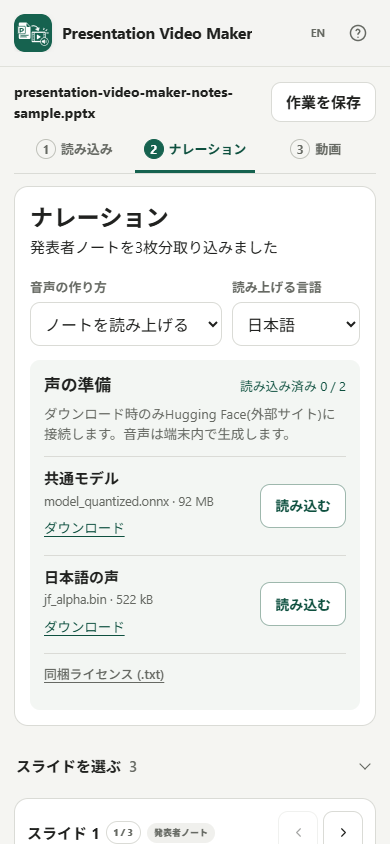
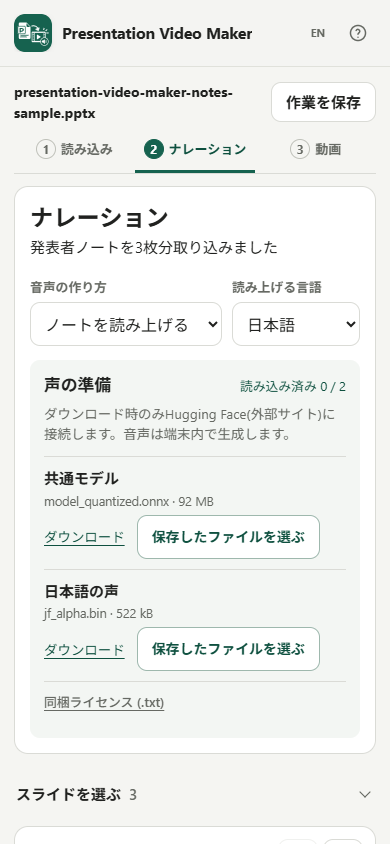
Edit, preview and regenerate slide narration in place

diff --git a/src/index.template.html b/src/index.template.html
@@ -607,7 +607,9 @@
     .guide-preview .renderer-badge[data-state="primary"] { display:none; }
     .guide-slide .narration-section-head { margin-top:12px; }
     .guide-slide textarea { min-height:190px; }
-    .guide-listen-slide { margin-top:10px; }
+    .guide-slide-audio { display:flex; flex-wrap:wrap; align-items:center; gap:8px; }
+    .guide-slide-audio:has(> :not([hidden])) { margin-top:10px; }
+    #guideAudioPlayer { width:100%; min-width:0; max-width:34rem; }
     .guide-slide #sceneEditorContent { min-width:0; }
     .guide-disclosure { border-top:1px solid var(--line); margin-top:12px; }
     .guide-capture,.guide-recordings { padding-inline:12px; }
@@ -650,6 +652,8 @@
       .guide-import .guide-drop-label { display:none; }
     }
     @media (max-width:420px) {
+      .guide-model li { grid-template-columns:minmax(0,1fr); gap:4px; }
+      .guide-model-actions { display:flex; gap:4px 12px; }
       .guide-main-actions { display:grid; grid-template-columns:minmax(0,1fr); }
       :lang(en) .guide-method { grid-template-columns:minmax(0,1fr); }
     }
@@ -760,7 +764,7 @@
                 <div class="guide-model-name"><strong data-i18n="guideModel">共通モデル</strong><small>model_quantized.onnx · 92 MB</small></div>
                 <div class="guide-model-actions">
                   <a href="https://huggingface.co/onnx-community/Kokoro-82M-v1.0-ONNX/resolve/1939ad2a8e416c0acfeecc08a694d14ef25f2231/onnx/model_quantized.onnx?download=true" target="_blank" rel="noopener noreferrer" data-i18n="guideDownload" data-i18n-aria-label="guideDownloadModel" aria-label="共通モデルをダウンロード">ダウンロード</a>
-                  <button class="button" type="button" data-load-local-file data-i18n="guideLoadFile" data-i18n-aria-label="guideReadModel" aria-label="モデルを読み込む">読み込む</button>
+                  <button class="button" type="button" data-load-local-file data-i18n="guideLoadFile" data-i18n-aria-label="guideReadModel" aria-label="保存したファイルを選ぶ（共通モデル）">保存したファイルを選ぶ</button>
                   <strong class="guide-file-ready" data-local-ready data-i18n="guideFileReady" hidden>読み込み済み</strong>
                 </div>
                 <input type="file" data-local-file="model_quantized.onnx" accept=".onnx" hidden>
@@ -769,7 +773,7 @@
                 <div class="guide-model-name"><strong data-i18n="guideJaVoice">日本語の声</strong><small>jf_alpha.bin · 522 kB</small></div>
                 <div class="guide-model-actions">
                   <a href="https://huggingface.co/onnx-community/Kokoro-82M-v1.0-ONNX/resolve/1939ad2a8e416c0acfeecc08a694d14ef25f2231/voices/jf_alpha.bin?download=true" target="_blank" rel="noopener noreferrer" data-i18n="guideDownload" data-i18n-aria-label="guideDownloadJaVoice" aria-label="日本語の声をダウンロード">ダウンロード</a>
-                  <button class="button" type="button" data-load-local-file data-i18n="guideLoadFile" data-i18n-aria-label="guideReadJaVoice" aria-label="日本語の声を読み込む">読み込む</button>
+                  <button class="button" type="button" data-load-local-file data-i18n="guideLoadFile" data-i18n-aria-label="guideReadJaVoice" aria-label="保存したファイルを選ぶ（日本語の声）">保存したファイルを選ぶ</button>
                   <strong class="guide-file-ready" data-local-ready data-i18n="guideFileReady" hidden>読み込み済み</strong>
                 </div>
                 <input type="file" data-local-file="jf_alpha.bin" accept=".bin" hidden>
@@ -778,7 +782,7 @@
                 <div class="guide-model-name"><strong data-i18n="guideEnVoice">英語の声</strong><small>af_heart.bin · 522 kB</small></div>
                 <div class="guide-model-actions">
                   <a href="https://huggingface.co/onnx-community/Kokoro-82M-v1.0-ONNX/resolve/1939ad2a8e416c0acfeecc08a694d14ef25f2231/voices/af_heart.bin?download=true" target="_blank" rel="noopener noreferrer" data-i18n="guideDownload" data-i18n-aria-label="guideDownloadEnVoice" aria-label="英語の声をダウンロード">ダウンロード</a>
-                  <button class="button" type="button" data-load-local-file data-i18n="guideLoadFile" data-i18n-aria-label="guideReadEnVoice" aria-label="英語の声を読み込む">読み込む</button>
+                  <button class="button" type="button" data-load-local-file data-i18n="guideLoadFile" data-i18n-aria-label="guideReadEnVoice" aria-label="保存したファイルを選ぶ（英語の声）">保存したファイルを選ぶ</button>
                   <strong class="guide-file-ready" data-local-ready data-i18n="guideFileReady" hidden>読み込み済み</strong>
                 </div>
                 <input type="file" data-local-file="af_heart.bin" accept=".bin" hidden>
@@ -838,7 +842,12 @@
               <textarea id="scriptInput" maxlength="12000" data-i18n-placeholder="scriptPlaceholder" placeholder="発表者ノートがここに入ります。"></textarea>
               <span class="helper" id="scriptSourceHint" data-i18n="scriptHint">発表者ノートがある場合は自動で使用します。</span>
             </label>
-            <button type="button" class="button guide-listen-slide" id="guidePlaySlide" hidden data-i18n="guidePlayAudio">音声を聞く</button>
+            <div class="guide-slide-audio" id="guideSlideAudio">
+              <button type="button" class="button" id="guideUpdateSlide" data-i18n="guideUpdateAudio" hidden>このスライドの音声を更新</button>
+              <button type="button" class="button" id="guidePlaySlide" data-i18n="guidePlayAudio" hidden>音声を聞く</button>
+              <span class="helper" id="guidePreviousAudio" data-i18n="guidePreviousAudio" hidden>変更前の音声</span>
+              <audio id="guideAudioPlayer" controls preload="none" tabindex="0" aria-label="ナレーションの試聴" data-i18n-aria-label="guidePlayerLabel" hidden></audio>
+            </div>
             <details class="guide-disclosure" id="guideSlideSettings"><summary data-i18n="guideSlideSettings">このスライドの設定</summary>
             <div class="script-actions"><button class="text-button" id="resetScriptButton" type="button" data-i18n="resetScript">元の原稿に戻す</button></div>
             <div class="scene-options-row">
@@ -1026,7 +1035,7 @@
                 <video id="videoResultPreview" controls playsinline></video>
                 <div class="button-row" style="margin-top:10px"><button class="button primary" id="saveVideoButton" type="button" data-i18n="saveVideo">MP4を保存</button></div>
               </div>
-              <details class="guide-disclosure"><summary data-i18n="guideFinishing">仕上げの設定</summary>
+              <details class="guide-disclosure"><summary data-i18n="guideFinishing">字幕・BGM・切り替え</summary>
               <div class="video-polish-settings">
                 <label class="field" for="videoTransition"><span class="field-label" data-i18n="transitionLabel">切り替え</span><select id="videoTransition"><option value="fade" data-i18n="transitionFade">フェード</option><option value="cut" data-i18n="transitionCut">カット</option></select></label>
                 <div class="field"><span class="field-label" data-i18n="subtitleLabel">字幕</span><label class="toggle-line"><input id="videoSubtitles" type="checkbox"><span data-i18n="subtitleBurnIn">原稿から字幕を入れる</span></label></div>
@@ -1171,7 +1180,7 @@
         guideModelTitle:['声の準備','Set up the voice'],
         guideModelSteps:['ダウンロード時のみHugging Face(外部サイト)に接続します。音声は端末内で生成します。','Only downloads connect to Hugging Face (external site). Audio is generated on your device.'],
         guideModelCount:['読み込み済み {ready} / {total}','{ready} of {total} loaded'],
-        guideLoadFile:['読み込む','Load'],
+        guideLoadFile:['保存したファイルを選ぶ','Choose saved file'],
         guideModel:['共通モデル','Shared model'],
         guideJaVoice:['日本語の声','Japanese voice'],
         guideEnVoice:['英語の声','English voice'],
@@ -1180,9 +1189,9 @@
         guideDownloadModel:['共通モデルをダウンロード','Download shared model'],
         guideDownloadJaVoice:['日本語の声をダウンロード','Download Japanese voice'],
         guideDownloadEnVoice:['英語の声をダウンロード','Download English voice'],
-        guideReadModel:['モデルを読み込む','Load model'],
-        guideReadJaVoice:['日本語の声を読み込む','Load Japanese voice'],
-        guideReadEnVoice:['英語の声を読み込む','Load English voice'],
+        guideReadModel:['保存したファイルを選ぶ（共通モデル）','Choose saved file (shared model)'],
+        guideReadJaVoice:['保存したファイルを選ぶ（日本語の声）','Choose saved file (Japanese voice)'],
+        guideReadEnVoice:['保存したファイルを選ぶ（英語の声）','Choose saved file (English voice)'],
         guideWrongFile:['{file}はこの行のファイルと一致しません。{expected}を読み込んでください。','{file} does not match this row. Load {expected}.'],
         guideSpeechProgress:['音声生成全体の進捗','Overall audio generation progress'],
         guideSpeechSlides:['{total}枚中{completed}枚完了','{completed} of {total} complete'],
@@ -1201,7 +1210,7 @@
         guideCreate:['MP4を作る','Create MP4'],
         guideExportVideo:['動画を書き出す','Export video'],
         guidePrepareNotes:['ノートの音声を準備する','Prepare audio from notes'],
-        guideFinishing:['仕上げの設定','Finishing settings'],
+        guideFinishing:['字幕・BGM・切り替え','Subtitles, music and transitions'],
         guideNotes:['発表者ノートを{count}枚分取り込みました','Imported speaker notes from {count} {unit}'],
         guideDrafts:['発表者ノートのない{count}枚は、スライド本文を台本に使います。','The script uses slide text for {count} {unit} without speaker notes.'],
         guideCoverage:['音声を準備できたスライド {ready} / {total}','Slides with audio ready: {ready} / {total}'],
@@ -1229,10 +1238,14 @@
         guideInclude:['動画に含めるスライドを選ぶ','Choose slides to include'],
         guideAudioLimit:['このスライド用の音声ファイルを選びます。100 MBまで。','Choose an audio file for this slide, up to 100 MB.'],
         guidePlayAudio:['音声を聞く','Listen to audio'],
+        guidePlayerLabel:['ナレーションの試聴','Narration preview'],
+        guidePreviousAudio:['変更前の音声','Audio from before your edits'],
+        guidePlaybackFailed:['この音声を再生できませんでした。','This audio could not be played.'],
+        guideUpdateAudio:['このスライドの音声を更新','Update audio for this slide'],
         guidePlayPrevious:['変更前の音声を聞く','Listen to previous audio'],
         guideRecreate:['このスライドの音声を作り直す','Recreate audio for this slide'],
         guideFirstSave:['保存しました。次回はこの.pvmを開くと続きを編集できます。','Work saved. Open this .pvm next time to continue editing.'],
-        guideSampleBlocked:['音声を作りました。再生するには「音声を聞く」を押してください。','Audio is ready. Select Listen to play it.'],
+        guideSampleBlocked:['音声を作りました。プレーヤーの再生ボタンで聞けます。','Audio is ready. Press Play in the player to listen.'],
         guideOldVideo:['変更前の動画です。新しい設定を反映するにはMP4を作り直してください。','This video is from before your changes. Create a new MP4 to use the current settings.'],
         guideStopMic:['録音を止める','Stop recording'],
         helpUseOne:['「PowerPointを開く」で発表者ノートを取り込みます。保存済みの.pvmから再開することもできます。','Open PowerPoint to import its speaker notes. You can also reopen a saved .pvm.'],
@@ -1295,7 +1308,7 @@
[1 lines of base64/hex data omitted]
       });
       const state = {
-        guidePage:'slides', deckMethod:'file', fileLoading:false, importError:'', micStarting:false, audioFileLoading:false, previewRequest:0,
+        guidePage:'slides', guideSetupIndex:-1, localInlineSlide:null, deckMethod:'file', fileLoading:false, importError:'', micStarting:false, audioFileLoading:false, previewRequest:0,
         localDefaultLanguage:'ja',localFiles:new Map(),localRun:null,localProgress:null,localChecking:false,localMessage:null,localFileMessage:null,
         sourceGeneration: 0, sourceFile: null, sourceBuffer: null, slides: [], selectedSlideIndex: -1,
         voices: [], selectedVoiceURI: '', rate: 1, speechRunId: 0,
@@ -1303,7 +1316,7 @@
         presentation: null, mediaUrlCache: new Map(), mainSlideHandle: null, thumbHandles: new Map(), thumbObserver: null,
         renderQueue: [], renderBusy: false, renderSequence: 0,
         capturePhase: 'idle', captureAbort: false, displayStream: null, recorder: null,
-        recordingMime: '', maxRms: 0, captureRunId: 0, activeRecordingIndex: -1, previewAudio: null,
+        recordingMime: '', maxRms: 0, captureRunId: 0, activeRecordingIndex: -1,
         micStream: null, micRecorder: null, micRecordingIndex: -1, micRecordingStartedAt: 0, micPreviousStatus: 'pending',
         slideAspectRatio: 16/9, videoExportPhase: 'idle', videoAbortController: null, videoRecorder: null, videoResultBlob: null, videoResultUrl: '', videoResultDuration: 0, videoResultStale: false, ffmpegRunner: null, ffmpegLoadPromise: null, videoFilenameDirty: false,
         videoTransition: 'fade', videoSubtitles: false, bgmFile: null, bgmName: '', bgmVolume: 0.15, bgmLoop: true, projectBusy: false, videoWakeLock: null
@@ -1630,9 +1643,15 @@
         if(slide.recordingUrl){ try{ URL.revokeObjectURL(slide.recordingUrl); }catch{} }
         slide.recordingStatus='pending'; slide.recordingBlob=null; slide.recordingUrl=''; slide.recordingMime=''; slide.recordingBytes=0; slide.recordingMaxRms=0; slide.recordingAttempts=0; slide.recordingNarrationDuration=0; slide.recordingSpeechStartOffset=0; slide.recordingSpeechEndOffset=0; slide.recordingSource=''; slide.recordingFileName=''; slide.recordingStaleReason='';
       }
-      function markSceneRecordingStale(slide,reason='settings'){ if(slide?.recordingBlob){ slide.recordingStatus='stale'; if(slide.recordingStaleReason!=='settings') slide.recordingStaleReason=reason; } }
+      function markSceneRecordingStale(slide,reason='settings'){
+        if(!slide?.recordingBlob) return;
+        slide.recordingStatus='stale';
+        if(slide.recordingStaleReason==='script') return;
+        if(reason==='source'&&slide.recordingStaleReason==='settings') return;
+        slide.recordingStaleReason=reason;
+      }
       function cleanupRecording(){
-        try{ state.previewAudio?.pause?.(); }catch{} state.previewAudio=null;
+        closeGuideAudioPlayer();
         for(const slide of state.slides) clearSceneRecording(slide);
         renderSceneRecordings(); updateRecordingPlan();
       }
@@ -1641,6 +1660,7 @@
       function stopMicStream(){ if(state.micStream){ for(const track of state.micStream.getTracks()) track.stop(); state.micStream=null; } }
       function cancelMicRecording(){ try{ if(state.micRecorder){ state.micRecorder.onstop=null; if(state.micRecorder.state!=='inactive') state.micRecorder.stop(); } }catch{} state.micRecorder=null; state.micRecordingIndex=-1; stopMicStream(); $('#stopMicRecordingButton')?.setAttribute('disabled',''); }
       function invalidateSource(){
+        state.localInlineSlide=null;
         state.localRun?.abort(); state.localRun=null; state.localProgress=null; state.localMessage=null; state.localDefaultLanguage='ja'; state.deckMethod=defaultDeckMethod();
         window.LocalTTS?.dispose?.();
         state.sourceGeneration+=1; $('#sourceGenerationValue').textContent=String(state.sourceGeneration); cancelSpeech(); cancelMicRecording(); stopDisplayStream(); cleanupRecording(); clearVideoResult(); cancelVideo(); state.videoExportPhase='idle'; disposeRendererState();
@@ -1817,7 +1837,7 @@
         if(narrationChanged||inclusionChanged||paddingChanged) markVideoResultStale();
         if(narrationChanged){
           if(source==='tts'||slide.script!==nextScript) slide.narrationDuration=null;
-          if(slide.recordingBlob) markSceneRecordingStale(slide);
+          if(slide.recordingBlob) markSceneRecordingStale(slide,slide.script!==nextScript?'script':'settings');
         }
         slide.script=nextScript; slide.prePadding=nextPrePadding; slide.postPadding=nextPostPadding; slide.enabled=nextEnabled; slide.voiceURI=nextVoiceURI; slide.rate=nextRate; $('#scriptCharCount').textContent=format('chars',{count:slide.script.length}); const voice=selectedVoice(); $('#voiceCurrentLabel').textContent=voice?`${voice.name} (${voice.lang})`:'—'; $('#sceneVoiceSummary').textContent=source==='tts'?(voice?`${voice.name} · ${formatRate(state.rate)}`:`— · ${formatRate(state.rate)}`):source==='mic'?t('sourceMic'):(slide.recordingFileName||t('sourceFile')); updateNarrationDuration(slide); renderSceneRecordings(); updateRecordingPlan();
       }
@@ -1830,7 +1850,7 @@
           blob:slide.recordingBlob,source:narrationSource(slide),voice:slide.voiceURI,rate:slide.rate,language:localLanguage(slide)};
         slide.script=restored;
         slide.narrationDuration=null;
-        markSceneRecordingStale(slide);
+        markSceneRecordingStale(slide,'script');
         markVideoResultStale();
         $('#scriptInput').value=restored;
         $('#scriptCharCount').textContent=format('chars',{count:restored.length});
@@ -1848,7 +1868,7 @@
             slide.recordingStatus=before.status;
             slide.recordingStaleReason=before.reason;
           } else {
-            markSceneRecordingStale(slide);
+            markSceneRecordingStale(slide,'script');
           }
           markVideoResultStale();
           if(state.slides[state.selectedSlideIndex]===slide){
@@ -1999,13 +2019,14 @@
         updateNarrationDuration(selected);
         refreshCaptureReady();
       }
-      async function generateLocalAudio(batch=false, index=state.selectedSlideIndex) {
+      async function generateLocalAudio(batch=false, index=state.selectedSlideIndex, inline=false) {
         if(projectOperationBusy()||state.micStarting||state.localChecking||!canUseMethod('local')) return;
         saveCurrentScript();
         const targets=batch ? state.slides.filter(localPending) : [state.slides[index]];
         if(!targets.length || !targets[0]) return;
         const controller=new AbortController(), signal=controller.signal;
         state.localRun=controller;
+        state.localInlineSlide=inline?targets[0]:null;
         state.localMessage=null;
         let completed=0, currentSlide=targets[0].slideNumber;
         try {
@@ -2067,6 +2088,9 @@
             state.localProgress=null;
             renderSceneRecordings();
             refreshCaptureReady();
+            if(inline&&state.guidePage==='script'&&state.slides[state.selectedSlideIndex]===targets[0]&&document.activeElement===$('#localTtsStatus')){
+              focusGuideControl(completed?'#guidePlaySlide':'#guideUpdateSlide');
+            }
           }
         }
       }
@@ -2075,7 +2099,11 @@
         const slide=state.slides[state.selectedSlideIndex]; if(!slide||!validDeckMethod(source)) return; if(state.micRecorder||state.micStarting){ showToast(t('micStopBeforeSwitch')); return; }
         slide.followsDeckMethod=inherit;
         if(slide.audioSource===source){ renderGuidedNarration(); return; }
-        saveCurrentScript(); slide.audioSource=source; if(slide.recordingBlob){ if(slide.recordingSource===source){ if(slide.recordingStaleReason==='source'){ slide.recordingStatus='success'; slide.recordingStaleReason=''; } } else { slide.recordingStatus='stale'; if(slide.recordingStaleReason!=='settings') slide.recordingStaleReason='source'; } } updateNarrationSourceUI(slide); syncNarrationControlsForScene(slide); renderSceneRecordings(); refreshCaptureReady(); updateVideoExportState(); markVideoResultStale();
+        saveCurrentScript();
+        slide.audioSource=source;
+        if(slide.recordingBlob&&slide.recordingSource!==source) markSceneRecordingStale(slide,'source');
+        else if(slide.recordingStaleReason==='source'){ slide.recordingStatus='success'; slide.recordingStaleReason=''; }
+        updateNarrationSourceUI(slide); syncNarrationControlsForScene(slide); renderSceneRecordings(); refreshCaptureReady(); updateVideoExportState(); markVideoResultStale();
       }
       function audioBlobDuration(blob){
         return new Promise((resolve,reject)=>{ const url=URL.createObjectURL(blob), audio=new Audio(); const done=(fn,value)=>{try{URL.revokeObjectURL(url);}catch{} fn(value);}; const timer=setTimeout(()=>done(reject,new Error('AUDIO_DURATION_TIMEOUT')),10000); audio.preload='metadata'; audio.onloadedmetadata=()=>{clearTimeout(timer); const duration=Number(audio.duration); Number.isFinite(duration)&&duration>0?done(resolve,duration):done(reject,new Error('AUDIO_DURATION_INVALID'));}; audio.onerror=()=>{clearTimeout(timer);done(reject,new Error('AUDIO_DURATION_FAILED'));}; audio.src=url; });
@@ -2239,16 +2267,34 @@
           setNarrationSource('tts'); saveCurrentScript(); const current=state.slides[index]; if(!sceneIsRecordable(current)||!voiceForScene(current)){ showToast(t('singleTtsNotReady')); return; } if(current.recordingBlob&&!confirm(t('confirmReplaceSceneAudio'))) return; await runBatchCapture([index],{singleScene:true});
         }
       }
+      function closeGuideAudioPlayer(){
+        const audio=$('#guideAudioPlayer');
+        if(!audio.hasAttribute('src')) return;
+        audio.pause();
+        audio.removeAttribute('src');
+        audio.load();
+        audio.hidden=true;
+      }
       function playSceneRecording(index,{created=false}={}){
         const slide=state.slides[index];
-        if(!slide?.recordingUrl) return;
-        state.previewAudio?.pause();
-        const audio=new Audio(slide.recordingUrl);
-        state.previewAudio=audio;
-        audio.addEventListener('ended',()=>{ if(state.previewAudio===audio) state.previewAudio=null; },{once:true});
+        if(!slide?.recordingUrl||state.guidePage!=='script'||projectOperationBusy()||state.micStarting) return;
+        if(index!==state.selectedSlideIndex) selectSlide(index);
+        const audio=$('#guideAudioPlayer'), url=slide.recordingUrl;
+        if(audio.getAttribute('src')!==url) audio.src=url;
+        audio.hidden=false;
+        renderGuidedNarration();
+        focusGuideControl('#guideAudioPlayer');
         audio.play().catch(error=>{
-          if(error?.name==='NotAllowedError'&&created) showToast(t('guideSampleBlocked'));
-          else console.warn(error);
+          if(audio.getAttribute('src')!==url||error.name==='AbortError') return;
+          if(error.name==='NotAllowedError'){
+            if(created) showToast(t('guideSampleBlocked'));
+          }else{
+            const focused=document.activeElement===audio;
+            closeGuideAudioPlayer();
+            renderGuidedNarration();
+            if(focused) $('#guidePlaySlide').focus({preventScroll:true});
+            showToast(t('guidePlaybackFailed'));
+          }
         });
       }
       function refreshCaptureReady(){
@@ -2423,6 +2469,7 @@
       }
       function showGuidePage(page,{focus=true}={}){
         if(page!=='slides'&&!state.slides.length) return;
+        if(page!=='script') closeGuideAudioPlayer();
         state.guidePage=page;
         for(const section of $$('[data-guide-page]')) section.hidden=section.dataset.guidePage!==page;
         for(const button of $$('[data-guide-step]')){
@@ -2430,6 +2477,7 @@
           else button.removeAttribute('aria-current');
         }
         $('.page-intro').hidden=page!=='slides'||Boolean(state.slides.length);
+        if(page==='script') renderGuidedNarration();
         if(focus){
           window.scrollTo(0,0);
           const selector={slides:state.slides.length?'#guideReturn':'#chooseFileButton',script:'#guideNarrationHeading',output:'#guideVideoHeading'}[page];
@@ -2487,8 +2535,20 @@
         $('#guideInherit').hidden=slides[selected]?.followsDeckMethod===true&&narrationSource(slides[selected])===state.deckMethod;
         $('#guideInherit').disabled=busy||!canUseMethod(state.deckMethod);
         const play=$('#guidePlaySlide'), activeSlide=slides[selected];
-        play.hidden=!activeSlide?.recordingUrl;
-        play.textContent=t(guidedAudioState(activeSlide,narrationSource(activeSlide))==='ready'?'guidePlayAudio':'guidePlayPrevious');
+        const player=$('#guideAudioPlayer');
+        if(player.getAttribute('src')!==activeSlide?.recordingUrl||state.localRun||state.micStarting||state.micRecorder||captureIsBusy()) closeGuideAudioPlayer();
+        play.hidden=!activeSlide?.recordingUrl||!player.hidden;
+        play.disabled=busy;
+        const audioState=guidedAudioState(activeSlide,narrationSource(activeSlide));
+        play.textContent=t(audioState==='ready'?'guidePlayAudio':'guidePlayPrevious');
+        $('#guidePreviousAudio').hidden=player.hidden||audioState==='ready';
+        const update=$('#guideUpdateSlide');
+        update.hidden=!(activeSlide?.recordingSource==='local'&&narrationSource(activeSlide)==='local'&&activeSlide.recordingStaleReason==='script'&&
+          audioState==='stale'&&canUseMethod('local'));
+        update.disabled=busy;
+        const run=$('#localTtsRun');
+        const runAnchor=state.localInlineSlide===activeSlide?$('#guideSlideAudio'):$('.guide-main-actions');
+        if(runAnchor.nextElementSibling!==run) runAnchor.after(run);
         $('#localTtsDefaultLanguage').disabled=busy;
         $('#localTtsLanguage').disabled=busy;
         for(const button of $$('[data-narration-source]')){
@@ -3147,9 +3207,10 @@
       async function generateGuideSample(index){
         const slide=state.slides[index];
         if(!slide) return;
+        if(state.selectedSlideIndex!==index) selectSlide(index);
         const ready=guidedAudioState(slide,'local')==='ready';
         if(!ready) await generateLocalAudio(false,index);
-        if(state.slides[index]===slide&&guidedAudioState(slide,'local')==='ready'){
+        if(state.slides[state.selectedSlideIndex]===slide&&guidedAudioState(slide,'local')==='ready'){
           playSceneRecording(index,{created:!ready});
         }
       }
@@ -3186,12 +3247,12 @@
             break;
         }
       }
-      function prepareSelectedLocal(){
+      function prepareSelectedLocal({inline=false}={}){
         const index=state.selectedSlideIndex, slide=state.slides[index];
         if(!slide) return;
         const missing=missingLocalFiles(slide);
         if(!missing.length){
-          generateLocalAudio();
+          generateLocalAudio(false,index,inline);
         }else{
           state.guideSetupIndex=index;
           renderGuidedNarration();
@@ -3209,6 +3270,14 @@
       $('#guideMethod').addEventListener('change',event=>changeDeckMethod(event.currentTarget.value));
       $('#guideContinuePC').addEventListener('click',saveProject);
       $('#guidePlaySlide').addEventListener('click',()=>playSceneRecording(state.selectedSlideIndex));
+      $('#guideUpdateSlide').addEventListener('click',()=>prepareSelectedLocal({inline:true}));
+      $('#guideAudioPlayer').addEventListener('ended',event=>{
+        if(!event.target.ended) return;
+        const focused=document.activeElement===event.target;
+        closeGuideAudioPlayer();
+        renderGuidedNarration();
+        if(focused) $('#guidePlaySlide').focus({preventScroll:true});
+      });
       $('#guideFilter').addEventListener('change',renderGuidedNarration);
       $('#guideInherit').addEventListener('click',()=>setNarrationSource(state.deckMethod,{inherit:true}));
       $('#guideReviewDraft').addEventListener('click',()=>openGuideSlide(state.slides.findIndex(slide=>!slide.notesText?.trim()&&slide.script?.trim())));
@@ -3303,9 +3372,18 @@
         input.value='';
         await selectLocalFile(name,file);
         if(!restoreFocus||state.guidePage!=='script'||![button,document.body].includes(document.activeElement)) return;
+        const selected=state.slides[state.selectedSlideIndex];
         if(!button.hidden) button.focus();
+        else if(selected&&state.guideSetupIndex===state.selectedSlideIndex&&!missingLocalFiles(selected).length){
+          state.guideSetupIndex=-1;
+          if(!$('#guideUpdateSlide').hidden) focusGuideControl('#guideUpdateSlide');
+          else{
+            $('#guideSlideSettings').open=true;
+            focusGuideControl('#localTtsGenerate');
+          }
+        }
         else if(!$('#guideModelSetup').hidden) focusGuideControl('#guideModelFiles [data-model-file]:not([hidden]) [data-load-local-file]:not([hidden])');
-        else focusGuideControl(state.guideSetupIndex===state.selectedSlideIndex?'#localTtsGenerate':'#guidePrimary');
+        else focusGuideControl('#guidePrimary');
       });
       $('#localTtsNotices').addEventListener('click',()=>{
         const notice=$('#local-tts-notices');

diff --git a/README.md b/README.md
@@ -10,7 +10,7 @@ A privacy-focused, single-HTML app for turning a PowerPoint (PPTX) deck into a n
 
 ## Generate Japanese and English narration from speaker notes
 
-Open a PowerPoint in a supported browser. **Generate narration from notes** is selected for new decks on supported phones and desktop browsers. Download the shared model and the required voices from Hugging Face (external site), then load each file from its own row. Audio is generated on your device.
+Open a PowerPoint in a supported browser. **Generate narration from notes** is selected for new decks on supported phones and desktop browsers. Download the shared model and the required voices from Hugging Face (external site), then select **Choose saved file** in each row. Audio is generated on your device.
 
 | File | Used for |
 | --- | --- |
@@ -81,9 +81,9 @@ Node.js, Python, and a local web server are not required for the normal Windows 
 
 1. **Open file** — Open or drop a .pptx file (up to 150 MB). To resume, use **Open saved work (.pvm)**.
 2. **Narration** — Choose a language and prepare the voice files, then create audio for all remaining slides. The progress bar tracks the whole batch, including completed portions of the current slide. When a slide has no notes, **Check script** opens the draft made from the slide text.
-3. **Edit a slide** — Pick a slide from the list. **Settings for this slide** includes its narration method, language, speed, timing and inclusion. You can record your voice or select a local audio file.
+3. **Edit a slide** — Pick a slide from the list. **Settings for this slide** includes its narration method, language, speed, timing and inclusion. You can record your voice or select a local audio file. While listening, pause or seek with the player below the script. After editing a script with generated narration, select **Update audio for this slide** to hear the revision.
 4. **Record computer speech on Windows** — Choose a local system voice, then select **Entire Screen** and **Share system audio** when prompted. Other sounds from your computer may also be recorded.
-5. **Video** — Create the MP4, preview it and select **Save MP4**. Find subtitles, background music and transitions under **Finishing settings**. Select **Save work** to keep a separate .pvm for future edits.
+5. **Video** — Create the MP4, preview it and select **Save MP4**. Open **Subtitles, music and transitions** to adjust them before export. Select **Save work** to keep a separate .pvm for future edits.
 
 ## Project files and text exports
 
